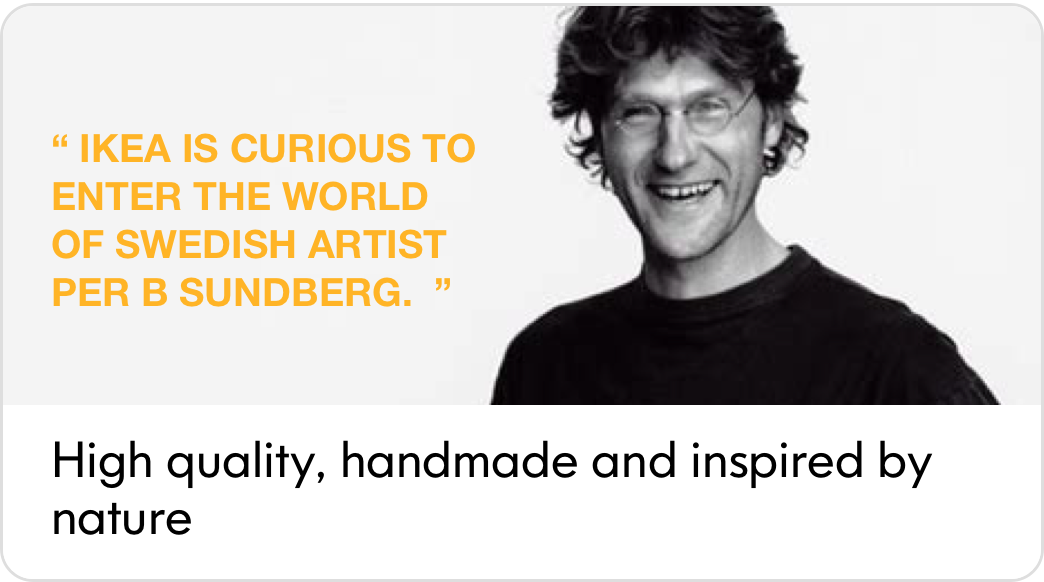
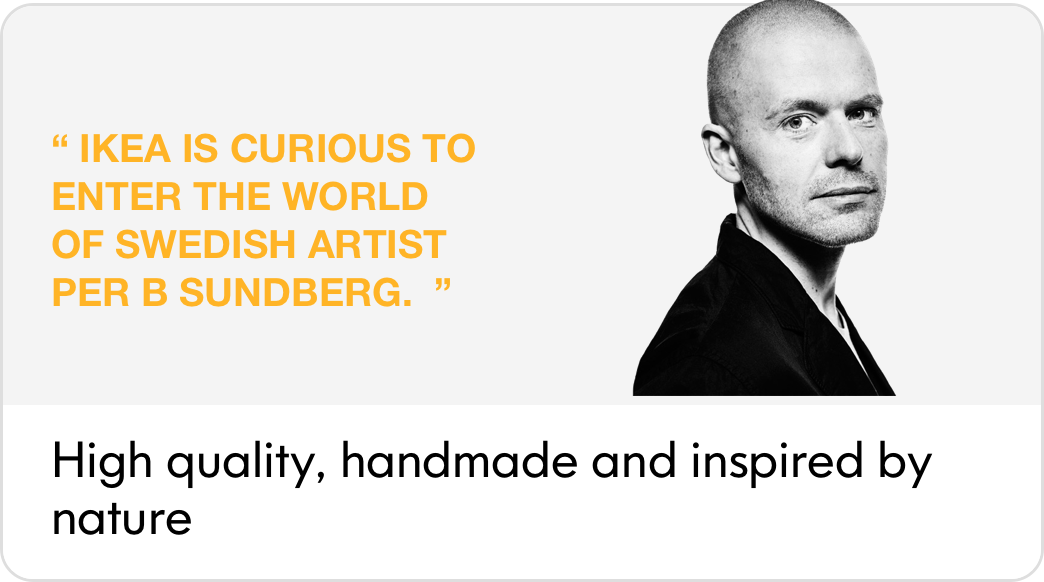
new story

Changed region(s): [[0.4598, 0.0, 0.9808, 0.7113]]

diff --git a/app/src/routes/LaunchPage.js b/app/src/routes/LaunchPage.js
@@ -3,9 +3,12 @@ import TweenOne from 'rc-tween-one';
 import QueueAnim from 'rc-queue-anim';
 import { connect } from 'dva';
 import { Link } from 'dva/router';
-import { NavBar, Icon, Carousel, Button, Picker, WhiteSpace } from 'antd-mobile';
+import { NavBar, Icon, Carousel, Button, Picker, WhiteSpace, Slider, Flex } from 'antd-mobile';
 
 import style from './LaunchPage.css';
+
+import 'emoji-mart/css/emoji-mart.css'
+import { Emoji } from 'emoji-mart'
 
 
 class LaunchPage extends React.Component {
@@ -30,7 +33,7 @@ class LaunchPage extends React.Component {
 		if (this.props.isCardGoingToLeave) {
 			setTimeout(function(){ 
 				that.props.onCardLeave(); 
-			}, 500);
+			}, 400);
 		}
 	}
 
@@ -50,18 +53,19 @@ class LaunchPage extends React.Component {
 		var animation;
 		var cardStyle;
 		if (this.props.isCardEnter) {
-			if(this.props.showCheckoutPage) {
+			if(this.props.isCardGoingToLeave) {
+				cardStyle = {
+					bottom: '-210vh',
+					height: '210vh'
+				};
 				animation = this.props.leaveAnimConfig;
-				cardStyle = {
-					bottom: '-190vh',
-					height: '190vh'
-				};
 			} else {
-				animation = this.props.enterAnimConfig;
 				cardStyle = {
-					bottom: '-90vh',
-					height: '90vh'
+					bottom: '-92vh',
+					height: '92vh',
+					overflowY: 'scroll'
 				};
+				animation = this.props.enterAnimConfig;
 			}
 		};
 
@@ -80,11 +84,10 @@ class LaunchPage extends React.Component {
 		if (this.props.isCardLeave) {
 			content = (
 				<div className={style.checkoutPage}>
-					<WhiteSpace />
+					<WhiteSpace size='lg' />
 					<NavBar
 						mode="light"
-						icon={<Icon type="left" color="#000" />}
-						onLeftClick={() => console.log('onLeftClick')}
+						icon={<Path to='/'><Icon type="left" color="#000" /></Path>}
 					>
 						{productInfo.name}
 					</NavBar>
@@ -155,22 +158,98 @@ class LaunchPage extends React.Component {
 							key="m"
 						>
 							<div className={style.cardText} key="m1">
-								Hello,I'm the Sofa STOCKSUND, and I was designed by <b>Nike Karlsson</b>.
+								Hello,I'm the Sofa KIWIK, and I was designed by <b>Ola Wihlborg</b>.
+								<br/>
+								Here is my design story.
 							</div>
 							<img src='assets/designer.png' className={style.cardImg} key="m2" />
 							<div className={style.cardText} key="m3">
-								We would appreciate your Feedback or even deliver one piece directly to your home?!
-								<div className={style.allBtns}>
-									<div className={style.btnBox} key="1">
-										<img src='assets/review me icn.png' className={style.btnImg} />
-									</div>
-									<div className={style.btnBox} onClick={this.showCheckout} key="2">
-										<img src='assets/buy me icon.png' className={style.btnImg} />
-									</div>
-									<div className={style.btnBox} key="3">
-										<img src='assets/find me icon.png' className={style.btnImg} />
-									</div>
+								<div style={{ float: 'left', width: '100%' }}>
+									Am I comfortable?
 								</div>
+								<div style={{ float: 'left', marginTop: '16px' }}>
+									<img src='assets/sad icon.png' width='75%' />
+								</div>
+								<Slider 
+									style={{ 
+										float: 'left',
+										width: '62%',
+										margin: '36px 8% 40px 2%'
+									}}
+									defaultValue={5}
+									min={1}
+									max={5} 
+									trackStyle={{
+										height: '25px',
+										background: 'linear-gradient(90deg, #61DFFA, #F7E81C)',
+										borderRadius: '12px',
+									}}
+									railStyle={{
+										height: '25px',
+										borderRadius: '12px',
+									}}
+									handleStyle={{
+										borderColor: '#000',
+										height: '50px',
+										width: '50px',
+										marginLeft: '-25px',
+										marginTop: '-12.5px',
+									}}
+								/>
+								<div style={{ float: 'left', marginTop: '16px' }}>
+									<img src='assets/happy icon.png' width='75%'/>
+								</div>
+								<div className={style.clearFloat}></div>
+							</div>
+							<div className={style.cardText} key="m4">
+								<div style={{ float: 'left', width: '100%' }}>
+									Do I look good?
+								</div>
+								<div style={{ float: 'left', marginTop: '16px' }}>
+									<img src='assets/sad icon.png' width='75%' />
+								</div>
+								<Slider 
+									style={{ 
+										float: 'left',
+										width: '62%',
+										margin: '36px 8% 40px 2%'
+									}}
+									defaultValue={5}
+									min={1}
+									max={5} 
+									trackStyle={{
+										height: '25px',
+										background: 'linear-gradient(90deg, #61DFFA, #F7E81C)',
+										borderRadius: '12px',
+									}}
+									railStyle={{
+										height: '25px',
+										borderRadius: '12px',
+									}}
+									handleStyle={{
+										borderColor: '#000',
+										height: '50px',
+										width: '50px',
+										marginLeft: '-25px',
+										marginTop: '-12.5px',
+									}}
+								/>
+								<div style={{ float: 'left', marginTop: '16px' }}>
+									<img src='assets/happy icon.png' width='75%' />
+								</div>
+								<div className={style.clearFloat}></div>
+							</div>
+							<div className={style.cardText} key="m5">
+								A lot people like me,do you want try?
+								<img src='assets/star.jpg' width='60%' />
+								<Flex style={{ padding: '0 32px' }}>
+									<Flex.Item style={{ textAlign: 'center' }} onClick={this.showCheckout}>
+										<img src='assets/buy me icon.png' className={style.btnImg} />
+									</Flex.Item>
+									<Flex.Item style={{ textAlign: 'center' }}>
+										<img src='assets/find me icon.png' className={style.btnImg} />
+									</Flex.Item>
+								</Flex>
 								<div className={style.btnClear}></div>
 							</div>
 						</QueueAnim>

diff --git a/app/src/routes/LaunchPage.css b/app/src/routes/LaunchPage.css
@@ -1,20 +1,21 @@
 .popCard {
 	position: absolute;
 	width: 100%;
-	background: url(../../public/assets/card bg.png) no-repeat;
+	background: url(../../public/assets/card bg 1.png) no-repeat;
 	background-size: 100%;
 	border-top-left-radius: 35px;
 	border-top-right-radius: 35px;
-	box-shadow: 0 -5px 5px rgba(0, 0, 0, 0.12);
+	box-shadow: 0 -5px 10px rgba(0, 0, 0, 0.1);
 	z-index: 999;
+	padding-bottom: 24px;
 }
 .cardHeader {
-	padding: 42px 40px 16px 40px;
+	padding: 48px 40px 40px 48px;
 	font-size: 45px;
 	font-weight: bolder;
 }
 .cardText {
-	margin: 42px 56px 42px 40px;
+	margin: 40px 56px 40px 40px;
 	padding: 24px 24px 24px 36px;
 	font-size: 32px;
 	line-height: 1.4;
@@ -27,9 +28,9 @@
 	height: 0;
 	position: absolute;
 	bottom: 0;
-	right: -18px;
+	right: -16px;
 	border-style: solid;
-	border-width: 20px 9px;
+	border-width: 16px 9px;
 	border-color: transparent transparent #fff #fff;
 	font-size: 0;
 }
@@ -42,19 +43,8 @@
 	width: 100%;
 	margin-top: 24px;
 }
-.btnBox {
-	width: 33%;
-	float: left;
-}
-.btnText {
-	width: 70%;
-	margin: 0 15% 8px 15%;
-	text-align: center;
-	font-size: 26px;
-}
 .btnImg {
-	width: 64%;
-	margin: 0 18%;
+	width: 50%;
 }
 .btnClear {
 	clear: both;
@@ -104,4 +94,8 @@
 }
 .buyBtnBox {
 	margin: 48px auto;
+}
+
+.clearFloat {
+	clear: both;
 }

diff --git a/app/src/routes/IndexPage.js b/app/src/routes/IndexPage.js
@@ -15,12 +15,12 @@ class IndexPage extends React.Component {
 		this.state = {
 			beconstate: '',
 			enterAnimConfig: {
-				y: "-90vh", 
+				y: "-92vh", 
 				duration: 500
 			},
 			leaveAnimConfig: {
-				y: "-190vh", 
-				duration: 600
+				y: "-210vh", 
+				duration: 500
 			},
 			isCardEnter: false,
 			isCardGoingToLeave: false,
@@ -96,13 +96,7 @@ class IndexPage extends React.Component {
 	render() {
 		return (
 			<div>
-				<div style={{ width: "100%", 
-							  height: "100vh", 
-							  background: "rgba(0, 0, 0, 0.2)", 
-							  overflow: "hidden"
-							}}
-				>
-				</div>
+				<img src='assets/ikea.png' width='100%' style={{ marginTop: '-16px' }} />
 				<LaunchPage 
 					enterAnimConfig={this.state.enterAnimConfig} 
 					leaveAnimConfig={this.state.leaveAnimConfig} 

diff --git a/app/src/routes/WaitingPage.js b/app/src/routes/WaitingPage.js
@@ -4,6 +4,8 @@ import { NavBar, Icon, List, InputItem, WhiteSpace } from 'antd-mobile';
 
 import style from './WaitingPage.css';
 
+import { hashHistory } from 'dva/router';
+
 
 class WaitingPage extends React.Component {
 	constructor(props) {
@@ -12,14 +14,15 @@ class WaitingPage extends React.Component {
 
 	componentDidMount() {
 		setTimeout(function() { 
-			window.location = '/#/confirm';
+			hashHistory.push('/confirm');
+			// window.location = '/#/confirm';
 		}, 2000);
 	}
 
 	render() {
 		return (
 			<div className={style.page}>
-				<WhiteSpace />
+				<WhiteSpace size='lg' />
 				<img src='assets/car icon.png' className={style.waitingImg} />
 				<div className={style.waitingText}>
 					Wait a moment! <br />

diff --git a/app/src/routes/OrderPage.js b/app/src/routes/OrderPage.js
@@ -14,7 +14,18 @@ class OrderPage extends React.Component {
 	render() {
 		return (
 			<div className={style.page}>
-				<WhiteSpace />
+				<WhiteSpace size='lg' style={{ background: '#fff' }} />
+				<NavBar
+					mode="light"
+					icon={
+						<Link to='/'>
+							<Icon type="left" color="#000" />
+						</Link>
+					}
+					style={{ marginTop: '-2px' }}
+				>
+					Order
+				</NavBar>
 				<div>
 					<div className={style.itemIcon}>
 						<img src='assets/email icon.png' width='100%' />

diff --git a/app/src/routes/ConfirmPage.js b/app/src/routes/ConfirmPage.js
@@ -14,7 +14,7 @@ class ConfirmPage extends React.Component {
 	render() {
 		return (
 			<div>
-				<WhiteSpace />
+				<WhiteSpace size='lg' />
 				<img 
 					src='assets/customer order header image.png' 
 					width='90%' 
